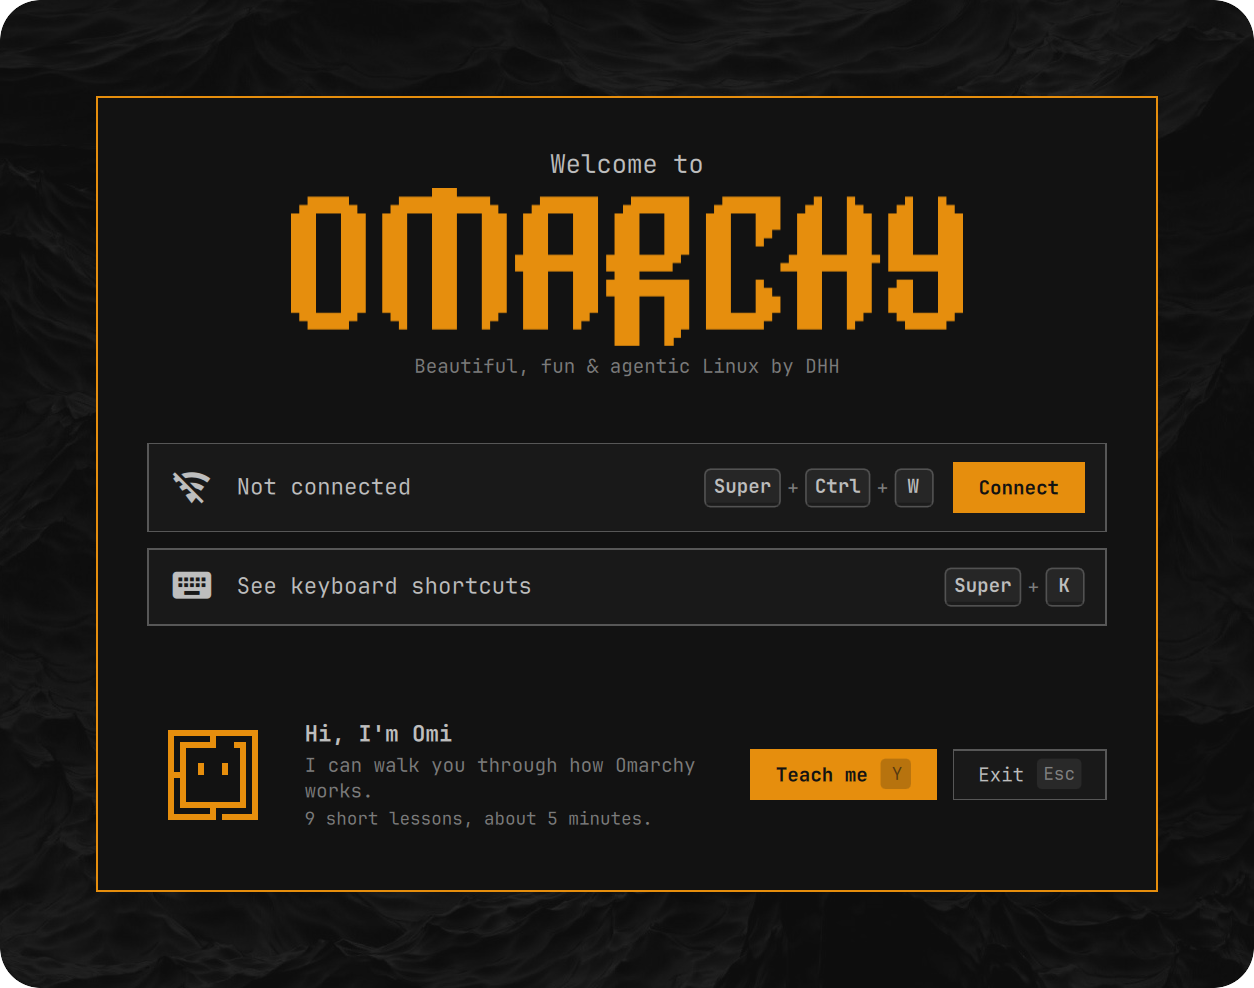
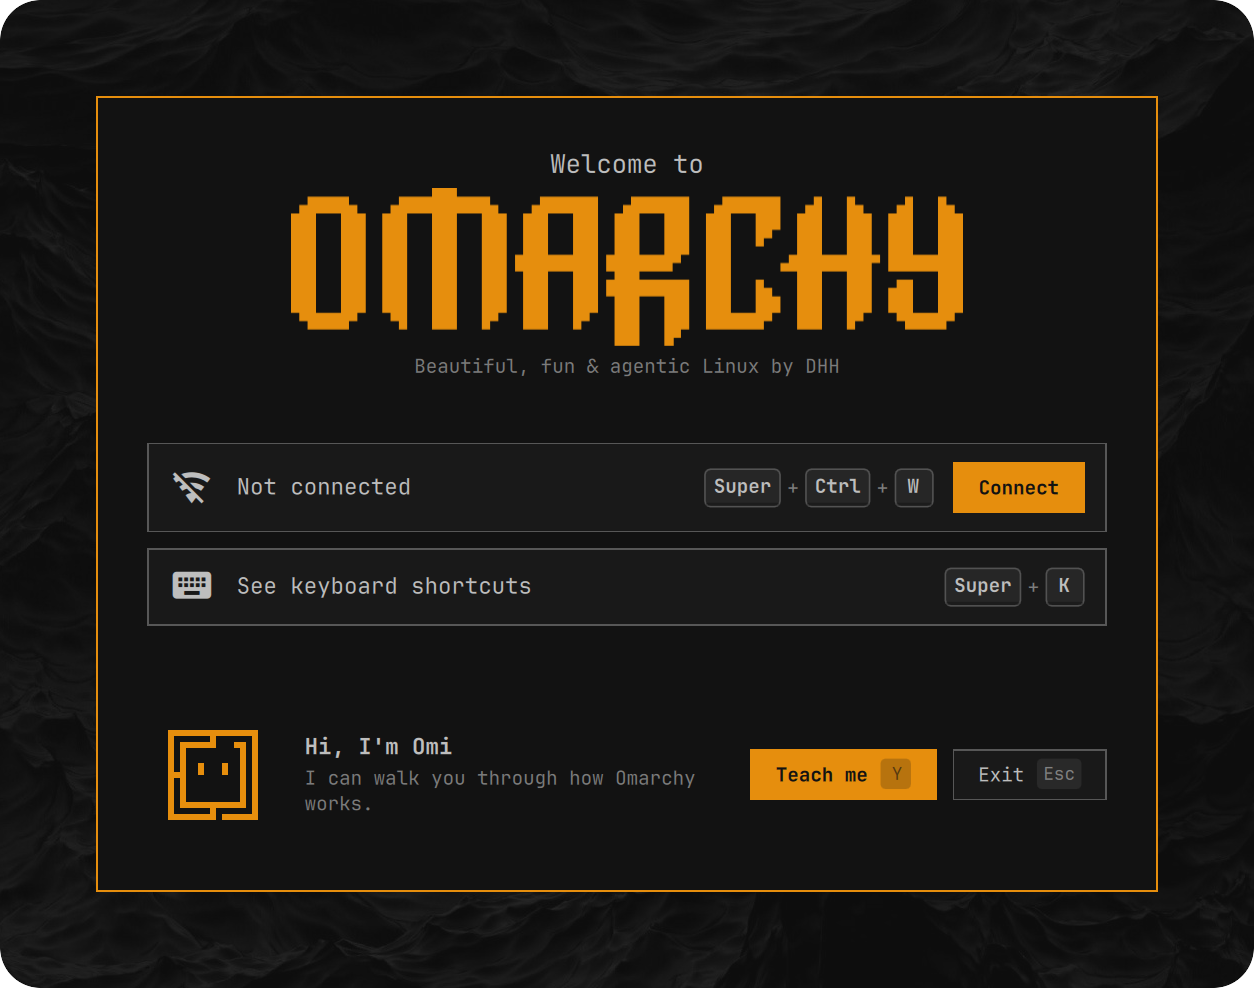
Drop the lesson count and time from the welcome page
Omi's offer says what the tour is, not how long it takes. Ui.tutorialBlurb and the overlay's lessonCount only fed that line, so they go too. The README's welcome screenshot is retaken without it.

Changed region(s): [[0.2177, 0.7287, 0.5598, 0.8502]]

diff --git a/lib/Ui.js b/lib/Ui.js
@@ -233,12 +233,6 @@ function positionLabel(manifest, stepId) {
     return title + " · " + (siblings.indexOf(step) + 1) + " of " + siblings.length;
 }
 
-// What the welcome page says the tutorial is, from how many lessons it has.
-function tutorialBlurb(count) {
-    var minutes = Math.max(1, Math.round(count / 2));
-    return count + " short lessons, about " + minutes + " minute" + (minutes === 1 ? "" : "s") + ".";
-}
-
 // One display as the display step shows it. Alone, a display needs no name
 // or resolution: "Built-in display, 160% scale". With more than one, each is
 // told apart: "Built-in display · 3840×2160 · 160%", "DP-1 · 2560×1440 · 100%".

diff --git a/ui/WelcomeView.qml b/ui/WelcomeView.qml
@@ -262,14 +262,6 @@ FocusScope {
                     font.family: Style.font.family
                     font.pixelSize: Style.font.body
                 }
-                Text {
-                    width: parent.width
-                    text: Ui.tutorialBlurb(view.host ? view.host.lessonCount : 0)
-                    wrapMode: Text.Wrap
-                    color: view.secondary
-                    font.family: Style.font.family
-                    font.pixelSize: Style.font.bodySmall
-                }
             }
 
             Row {

diff --git a/Overlay.qml b/Overlay.qml
@@ -210,8 +210,6 @@ Item {
     // steps still to do (Engine.openSteps).
     readonly property bool canBack: flow !== null && steps !== null && Engine.previousStep(steps, flow) !== null
     readonly property var openSteps: flow && steps ? Engine.openSteps(steps, flow) : []
-    // The tutorial's length, for the welcome page.
-    readonly property int lessonCount: steps ? Engine.tutorialSteps(steps).length : 0
 
     onStepChanged: stepEntered()
 

diff --git a/tests/run.js b/tests/run.js
@@ -615,8 +615,6 @@ test("the card's eyebrow says where a step sits", () => {
     eq(U.positionLabel(MANIFEST, "welcome"), "");
     eq(U.positionLabel(MANIFEST, "finish"), "");
     eq(U.positionLabel(MANIFEST, "nope"), "");
-    eq(U.tutorialBlurb(10), "10 short lessons, about 5 minutes.");
-    eq(U.tutorialBlurb(1), "1 short lessons, about 1 minute.");
 });
 
 test("displays read as people see them", () => {
